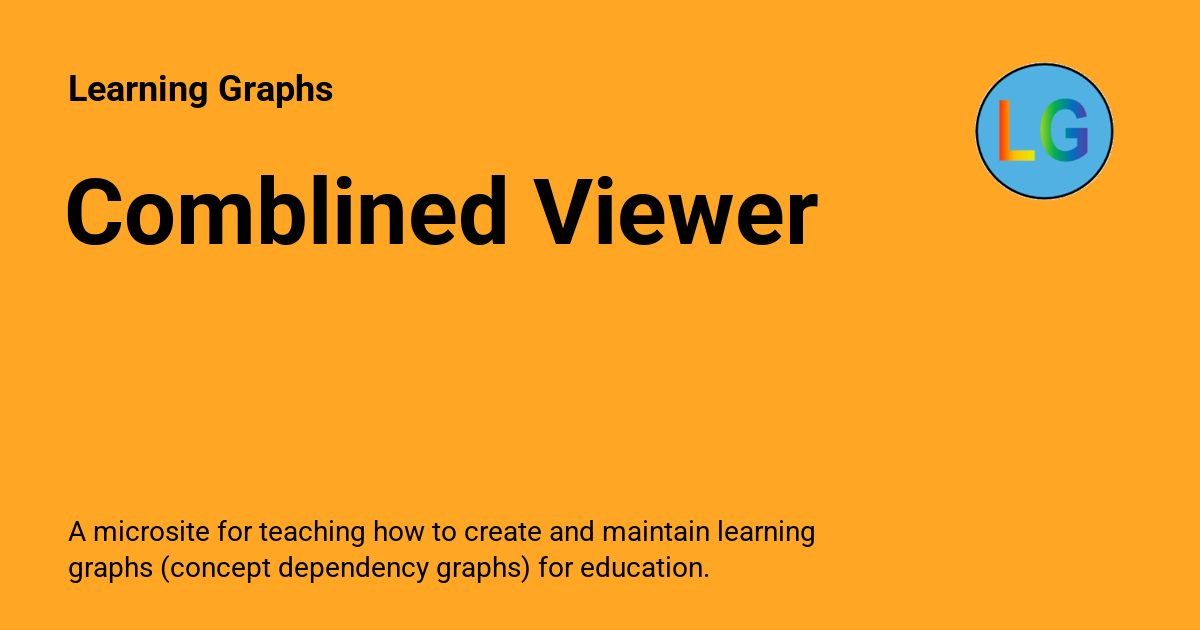
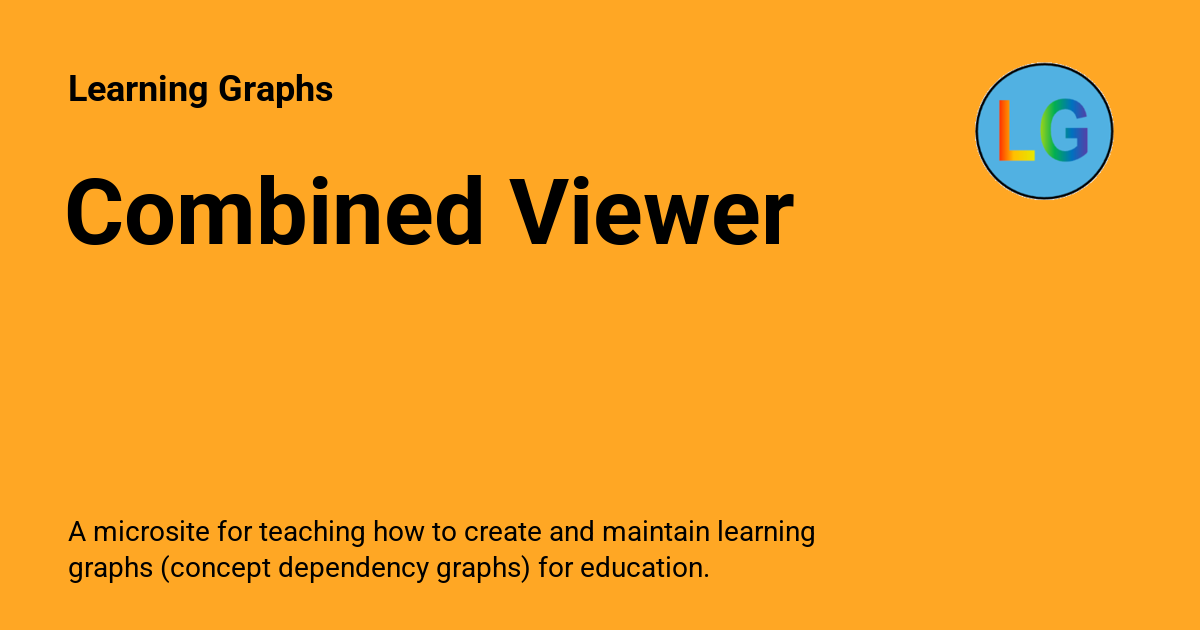
Deployed 2a8d785 with MkDocs version: 1.6.1

Changed region(s): [[0.2467, 0.2714, 0.6783, 0.3921]]

diff --git a/vis/combined-viewer/index.html b/vis/combined-viewer/index.html
@@ -26,7 +26,7 @@
     
     
       
-        <title>Comblined Viewer - Learning Graphs</title>
+        <title>Combined Viewer - Learning Graphs</title>
       
     
     
@@ -73,7 +73,7 @@
       
         <meta  property="og:type"  content="website" >
       
-        <meta  property="og:title"  content="Comblined Viewer - Learning Graphs" >
+        <meta  property="og:title"  content="Combined Viewer - Learning Graphs" >
       
         <meta  property="og:description"  content="A microsite for teaching how to create and maintain learning graphs (concept dependency graphs) for education." >
       
@@ -89,7 +89,7 @@
       
         <meta  name="twitter:card"  content="summary_large_image" >
       
-        <meta  name="twitter:title"  content="Comblined Viewer - Learning Graphs" >
+        <meta  name="twitter:title"  content="Combined Viewer - Learning Graphs" >
       
         <meta  name="twitter:description"  content="A microsite for teaching how to create and maintain learning graphs (concept dependency graphs) for education." >
       
@@ -149,7 +149,7 @@
         <div class="md-header__topic" data-md-component="header-topic">
           <span class="md-ellipsis">
             
-              Comblined Viewer
+              Combined Viewer
             
           </span>
         </div>
@@ -1167,7 +1167,7 @@
           
   
   <span class="md-ellipsis">
-    Comblined Viewer
+    Combined Viewer
   </span>
   
 
@@ -1178,7 +1178,7 @@
         
   
   <span class="md-ellipsis">
-    Comblined Viewer
+    Combined Viewer
   </span>
   
 

diff --git a/vis/graph-editor/index.html b/vis/graph-editor/index.html
@@ -1158,7 +1158,7 @@
         
   
   <span class="md-ellipsis">
-    Comblined Viewer
+    Combined Viewer
   </span>
   
 
@@ -1855,7 +1855,7 @@ What other parameters might a person change? Update the JavaScript to allow all 
       <nav class="md-footer__inner md-grid" aria-label="Footer" >
         
           
-          <a href="../combined-viewer/" class="md-footer__link md-footer__link--prev" aria-label="Previous: Comblined Viewer">
+          <a href="../combined-viewer/" class="md-footer__link md-footer__link--prev" aria-label="Previous: Combined Viewer">
             <div class="md-footer__button md-icon">
               
               <svg xmlns="http://www.w3.org/2000/svg" viewBox="0 0 24 24"><path d="M20 11v2H8l5.5 5.5-1.42 1.42L4.16 12l7.92-7.92L13.5 5.5 8 11z"/></svg>
@@ -1865,7 +1865,7 @@ What other parameters might a person change? Update the JavaScript to allow all 
                 Previous
               </span>
               <div class="md-ellipsis">
-                Comblined Viewer
+                Combined Viewer
               </div>
             </div>
           </a>

diff --git a/vis/graph-viewer/index.html b/vis/graph-viewer/index.html
@@ -1168,7 +1168,7 @@
         
   
   <span class="md-ellipsis">
-    Comblined Viewer
+    Combined Viewer
   </span>
   
 
@@ -1603,13 +1603,13 @@
         
         
           
-          <a href="../combined-viewer/" class="md-footer__link md-footer__link--next" aria-label="Next: Comblined Viewer">
+          <a href="../combined-viewer/" class="md-footer__link md-footer__link--next" aria-label="Next: Combined Viewer">
             <div class="md-footer__title">
               <span class="md-footer__direction">
                 Next
               </span>
               <div class="md-ellipsis">
-                Comblined Viewer
+                Combined Viewer
               </div>
             </div>
             <div class="md-footer__button md-icon">

diff --git a/vis/clusters/index.html b/vis/clusters/index.html
@@ -1324,7 +1324,7 @@
         
   
   <span class="md-ellipsis">
-    Comblined Viewer
+    Combined Viewer
   </span>
   
 

diff --git a/vis/concept-dependency-graph/index.html b/vis/concept-dependency-graph/index.html
@@ -1207,7 +1207,7 @@
         
   
   <span class="md-ellipsis">
-    Comblined Viewer
+    Combined Viewer
   </span>
   
 

diff --git a/vis/csv-reader/index.html b/vis/csv-reader/index.html
@@ -1216,7 +1216,7 @@
         
   
   <span class="md-ellipsis">
-    Comblined Viewer
+    Combined Viewer
   </span>
   
 

diff --git a/vis/double-click/index.html b/vis/double-click/index.html
@@ -1252,7 +1252,7 @@
         
   
   <span class="md-ellipsis">
-    Comblined Viewer
+    Combined Viewer
   </span>
   
 

diff --git a/vis/edit-nodes/index.html b/vis/edit-nodes/index.html
@@ -1158,7 +1158,7 @@
         
   
   <span class="md-ellipsis">
-    Comblined Viewer
+    Combined Viewer
   </span>
   
 

diff --git a/vis/fix-x-positions/index.html b/vis/fix-x-positions/index.html
@@ -1369,7 +1369,7 @@
         
   
   <span class="md-ellipsis">
-    Comblined Viewer
+    Combined Viewer
   </span>
   
 

diff --git a/vis/groups/index.html b/vis/groups/index.html
@@ -1234,7 +1234,7 @@
         
   
   <span class="md-ellipsis">
-    Comblined Viewer
+    Combined Viewer
   </span>
   
 

diff --git a/vis/hover-text/index.html b/vis/hover-text/index.html
@@ -1267,7 +1267,7 @@
         
   
   <span class="md-ellipsis">
-    Comblined Viewer
+    Combined Viewer
   </span>
   
 

diff --git a/vis/index.html b/vis/index.html
@@ -1158,7 +1158,7 @@
         
   
   <span class="md-ellipsis">
-    Comblined Viewer
+    Combined Viewer
   </span>
   
 
